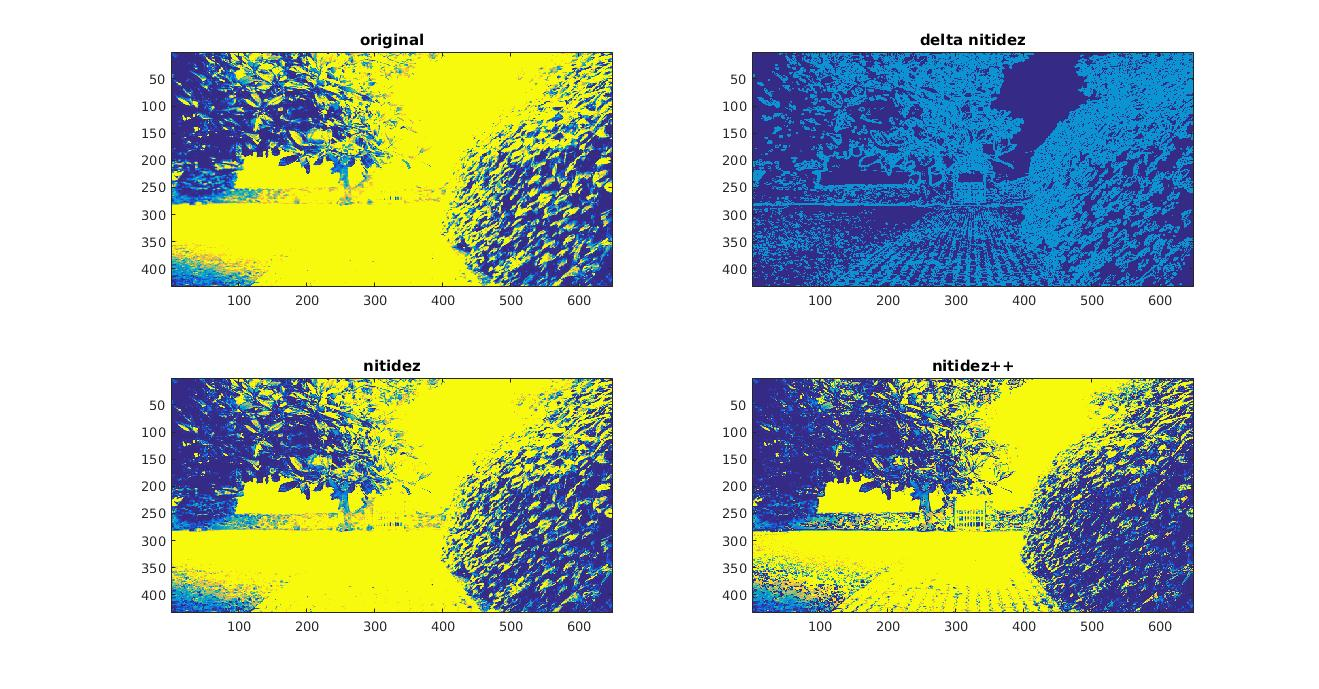
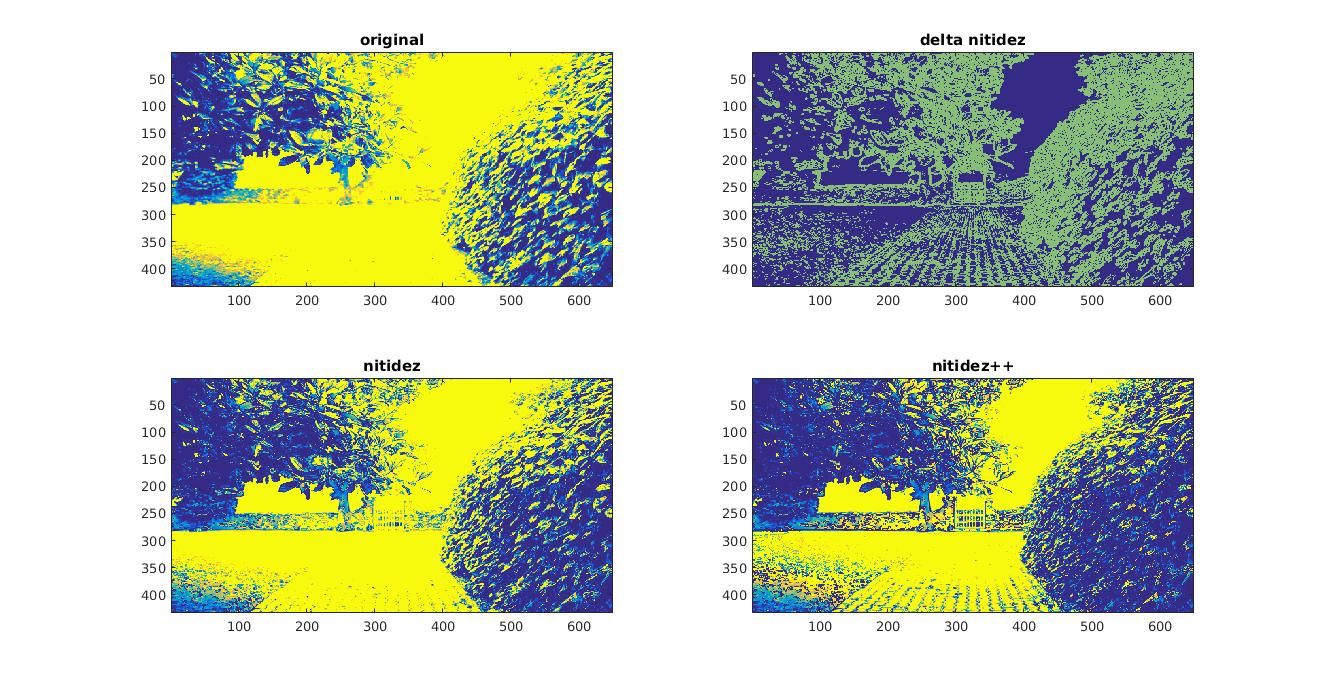
Update: Calibrate parameters

diff --git a/gssc/lista_2/resolucao/main.m b/gssc/lista_2/resolucao/main.m
@@ -89,5 +89,5 @@ subplot(2, 2, 2), image(sigf(final5));
 title('delta nitidez');
 subplot(2, 2, 3), image(gray5 - sigf(final5));
 title('nitidez');
-subplot(2, 2, 4), image(gray5 - 3*sigf(final5));
+subplot(2, 2, 4), image(gray5 - 2*sigf(final5));
 title('nitidez++');

diff --git a/gssc/lista_2/resolucao/sigf.m b/gssc/lista_2/resolucao/sigf.m
@@ -1,6 +1,6 @@
 %% functionname: function description
 function y = sigf(x)
 
-	y = 20*sig(x, 100, 70);
+	y = 40*sig(x, 100, 70);
 
 end
